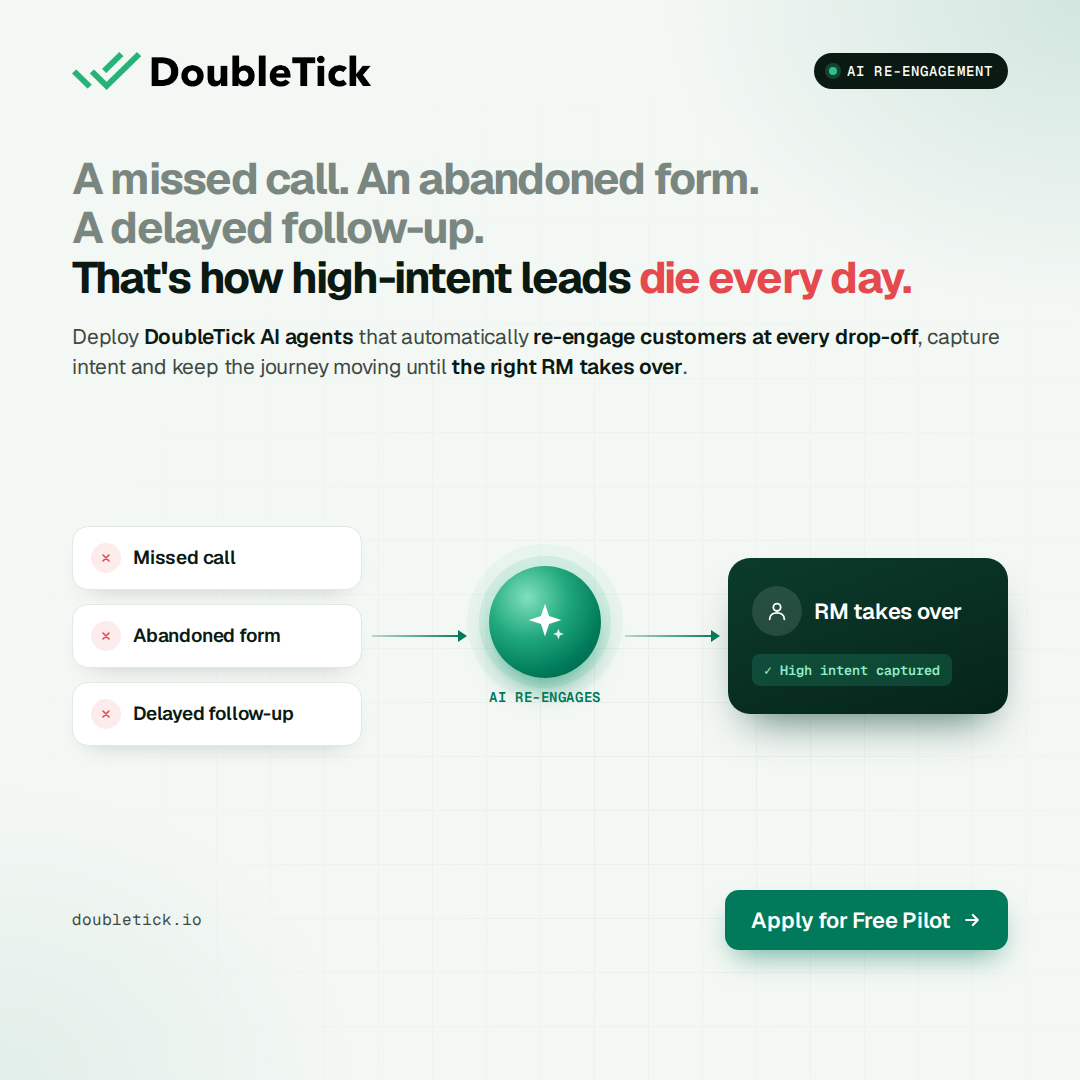
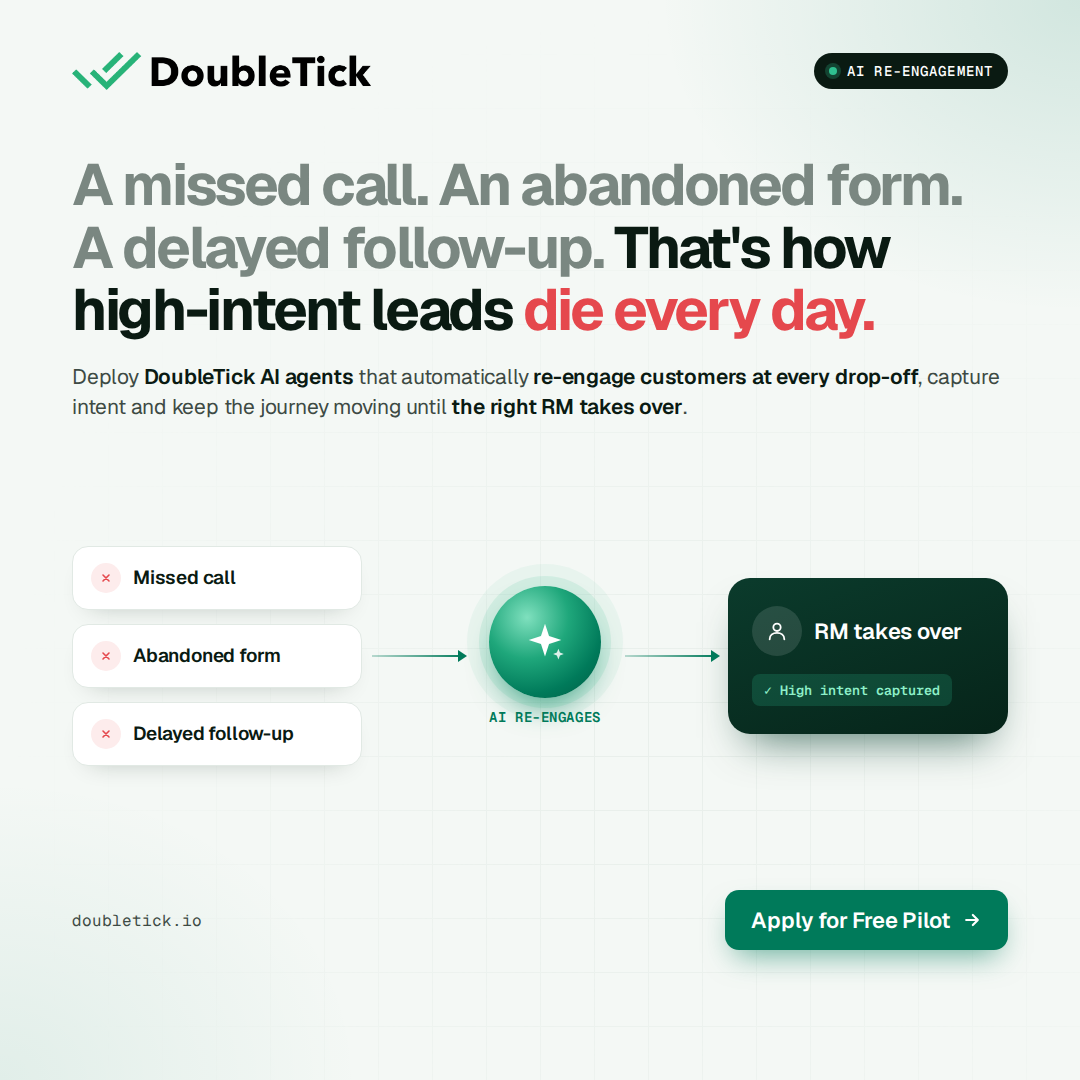
feat: enlarge re-engagement ad hook to 58px
Claude-Session: https://claude.ai/code/session_013Hi5o4KgvuLbKTeGkStAKX

diff --git a/ads/doubletick-ai-reengage/index.html b/ads/doubletick-ai-reengage/index.html
@@ -52,7 +52,7 @@
   }
   .pill i { width: 8px; height: 8px; border-radius: 50%; background: var(--green-2); box-shadow: 0 0 0 4px rgba(47,191,143,.25); }
 
-  h1 { margin-top: 24px; font-size: 44px; line-height: 1.12; letter-spacing: -0.04em; font-weight: 700; }
+  h1 { margin-top: 24px; font-size: 58px; line-height: 1.08; letter-spacing: -0.04em; font-weight: 700; }
   h1 .drop { color: var(--muted); }
   h1 .die { color: var(--red); }
   .sub { margin-top: 20px; font-size: 21px; line-height: 1.42; color: var(--ink-2); letter-spacing: -0.01em; }
@@ -100,7 +100,7 @@
     <div class="pill mono"><i></i>AI Re-engagement</div>
   </div>
 
-  <h1><span class="drop">A missed call. An abandoned form.</span><br/><span class="drop">A delayed follow-up.</span><br/>That's how high-intent leads <span class="die">die every day.</span></h1>
+  <h1><span class="drop">A missed call. An abandoned form.</span><br/><span class="drop">A delayed follow-up.</span> That's how<br/>high-intent leads <span class="die">die every day.</span></h1>
   <p class="sub">Deploy <b>DoubleTick AI agents</b> that automatically <b>re-engage customers at every drop-off</b>, capture intent and keep the journey moving until <b>the right RM takes over</b>.</p>
 
   <div class="flow">
